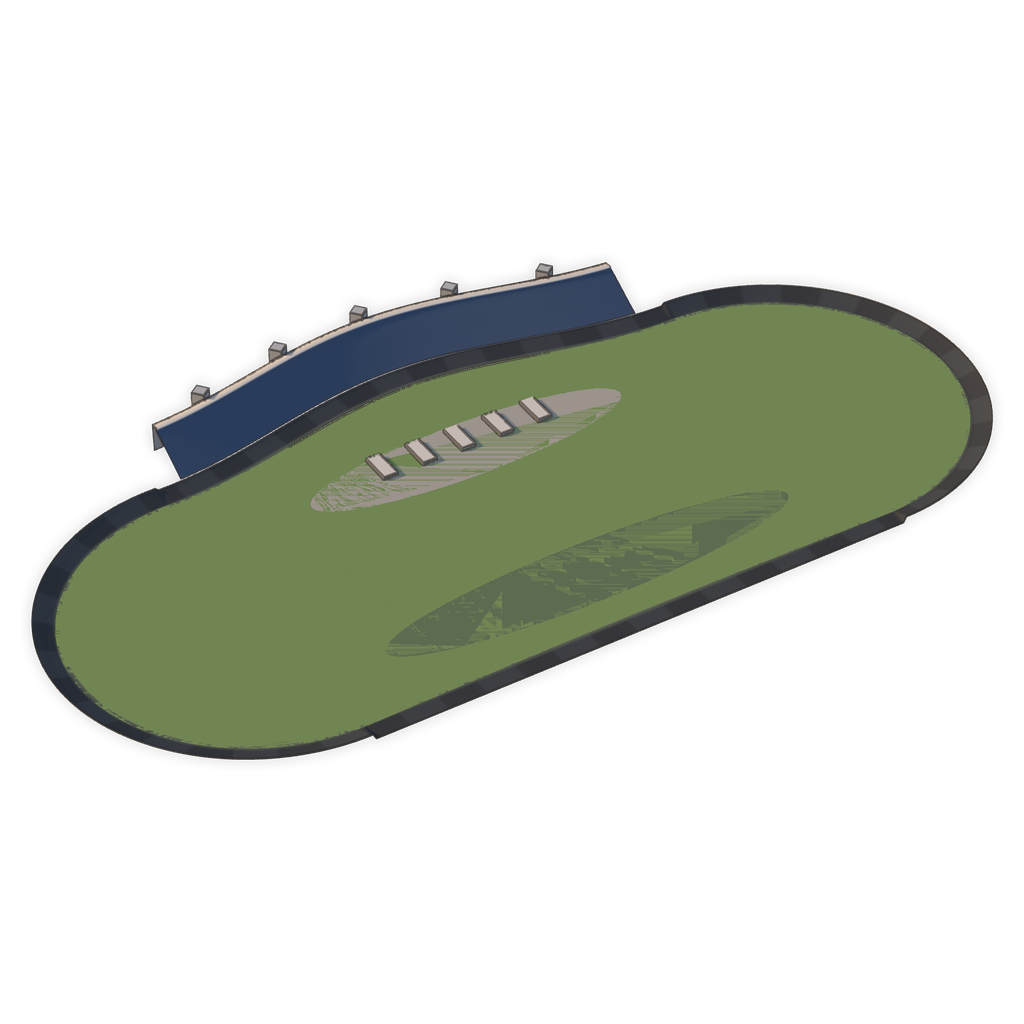
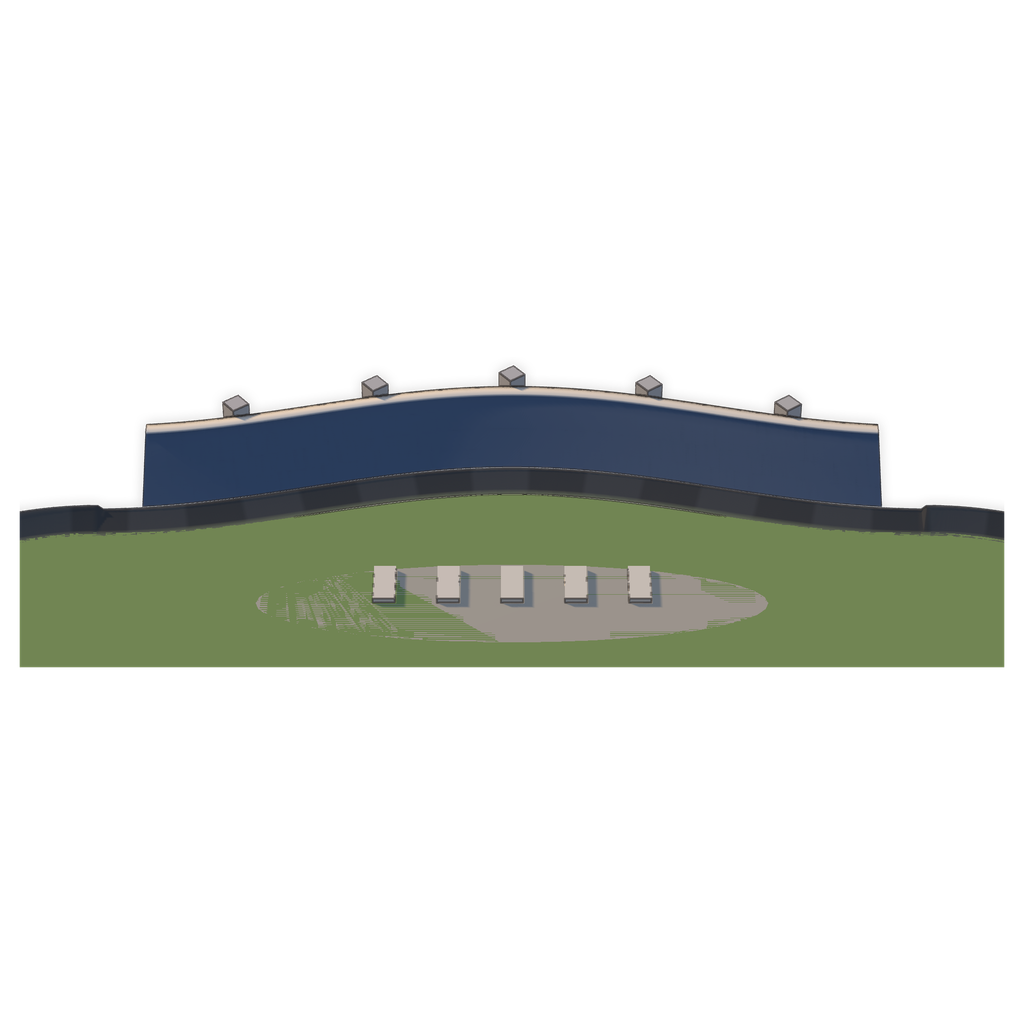
Racetracks: frame illustrations on the main grandstand and banking
Builders can name a framing region and camera bearing; framed venues render
at their own aspect ratio and are padded to a square by the compositor.

Changed region(s): [[0.0, 0.25, 1.0, 0.75]]

diff --git a/scripts/stadiums/art2/render.html b/scripts/stadiums/art2/render.html
@@ -31,26 +31,40 @@ document.body.appendChild(renderer.domElement)
 // One camera for every venue: 3/4 aerial from the south-southeast.
 const CAM_BEARING = 160, CAM_ELEV = 38, FOV = 20
 function fitCamera(obj, aspect) {
-  const box = new THREE.Box3().setFromObject(obj)
+  // Builders may name a framing region (e.g. racetracks: grandstand and banking) instead of the whole model.
+  let box = new THREE.Box3().setFromObject(obj)
+  if (obj.userData.frame) {
+    box = new THREE.Box3()
+    for (const [x, z] of obj.userData.frame) { box.expandByPoint(new THREE.Vector3(x, 0, z)); box.expandByPoint(new THREE.Vector3(x, 60, z)) }
+  }
   const sphere = box.getBoundingSphere(new THREE.Sphere())
   const cam = new THREE.PerspectiveCamera(FOV, aspect, 1, 20000)
-  const [bx, bz] = K.bearingVec(CAM_BEARING)
+  const [bx, bz] = K.bearingVec(obj.userData.cameraBearing ?? CAM_BEARING)
   const el = (CAM_ELEV * Math.PI) / 180
   const dist = (sphere.radius / Math.sin(((FOV / 2) * Math.PI) / 180)) * 1.02
   cam.position.set(sphere.center.x + bx * Math.cos(el) * dist, sphere.center.y + Math.sin(el) * dist, sphere.center.z + bz * Math.cos(el) * dist)
   cam.lookAt(sphere.center)
   cam.updateMatrixWorld()
   // Tighten the framing to the projected bounds so models fill the canvas.
+  // Project the frame points themselves (an axis-aligned box around a diagonal
+  // frame would pull in everything beside it), else the model's box corners.
   const corners = []
-  for (const x of [box.min.x, box.max.x]) for (const y of [box.min.y, box.max.y]) for (const z of [box.min.z, box.max.z]) corners.push(new THREE.Vector3(x, y, z).project(cam))
+  if (obj.userData.frame) for (const [x, z] of obj.userData.frame) for (const y of [0, 60]) corners.push(new THREE.Vector3(x, y, z).project(cam))
+  else for (const x of [box.min.x, box.max.x]) for (const y of [box.min.y, box.max.y]) for (const z of [box.min.z, box.max.z]) corners.push(new THREE.Vector3(x, y, z).project(cam))
   const xs = corners.map((p) => p.x), ys = corners.map((p) => p.y)
   const cx = (Math.max(...xs) + Math.min(...xs)) / 2, cy = (Math.max(...ys) + Math.min(...ys)) / 2
-  const ext = Math.max(Math.max(...xs) - cx, Math.max(...ys) - cy)
+  const hx = Math.max(...xs) - cx, hy = Math.max(...ys) - cy
+  // Framed venues (long grandstands) render at their own aspect ratio; the
+  // compositor pads to a square with transparent margins.
+  const A = obj.userData.frame ? Math.min(2.4, Math.max(1, hx / hy)) : 1
+  cam.aspect = A
+  const ext = Math.max(hx / A, hy)
   cam.zoom = 1 / (ext * 1.04)
   cam.updateProjectionMatrix()
+  cam.userData.aspect = A
   // Shift the image so the model's projected bounds are centered.
   const e = cam.projectionMatrix.elements
-  e[8] += cx * cam.zoom
+  e[8] += (cx / cam.aspect) * cam.zoom
   e[9] += cy * cam.zoom
   cam.projectionMatrixInverse.copy(cam.projectionMatrix).invert()
   return cam
@@ -91,8 +105,9 @@ window.renderVenue = async (slug, style, footprint, info, size = 2048) => {
   const ground = new THREE.Mesh(new THREE.PlaneGeometry(sphere.radius * 6, sphere.radius * 6), new THREE.ShadowMaterial({ opacity: 0.0 }))
   ground.rotation.x = -Math.PI / 2
   ground.position.set(sphere.center.x, Math.min(0, box.min.y) - 0.01, sphere.center.z)
-  renderer.setSize(size, size)
   const cam = fitCamera(model, 1)
+  const H = Math.round(size / cam.userData.aspect)
+  renderer.setSize(size, H)
   const out = {}
 
   // Color pass (with ambient occlusion for the shaded styles).
@@ -100,9 +115,9 @@ window.renderVenue = async (slug, style, footprint, info, size = 2048) => {
     renderer.render(scene, cam)
   } else {
     const composer = new EffectComposer(renderer)
-    composer.setSize(size, size)
+    composer.setSize(size, H)
     composer.addPass(new RenderPass(scene, cam))
-    const ao = new GTAOPass(scene, cam, size, size)
+    const ao = new GTAOPass(scene, cam, size, H)
     ao.updateGtaoMaterial({ radius: sphere.radius * 0.035, distanceExponent: 1.4, thickness: 2, scale: 1.2 })
     ao.blendIntensity = style === 'painted' ? 0.75 : 1.0
     composer.addPass(ao)

diff --git a/scripts/stadiums/art2/venues.js b/scripts/stadiums/art2/venues.js
@@ -450,6 +450,11 @@ function daytona({ fp, mat, info }) {
   const gs = new THREE.Mesh(gg, mat('#ffffff', { vertex: true, side: THREE.DoubleSide }))
   gs.castShadow = gs.receiveShadow = true
   for (let k = -2; k <= 2; k++) { const tw = K.box(24, 64, 24, '#c8ccd2', mat); const [x, z] = toW([k * 170, R + DOG * Math.cos(((k * 170) / S) * (Math.PI / 2)) ** 2 + W / 2 + 120]); tw.position.set(x, 0, z); g.add(tw) }
+  // Frame on the main grandstand, the tri-oval and the banked turn entries, not the
+  // infield: points spanning the front stretch out to where the turns bank.
+  g.userData.frame = [[-560, R - 50], [560, R - 50], [-560, R + DOG + W / 2 + 120], [560, R + DOG + W / 2 + 120]].map(([u, v]) => toW([u, v]))
+  // Racetracks face their main grandstand: camera looks at it square-on from the infield side.
+  g.userData.cameraBearing = (308 + 180) % 360
   // Paved garage and fan zone between the front stretch and the lake.
   const paved = []
   for (let i = 0; i < 40; i++) { const t = (i / 40) * Math.PI * 2; paved.push(toW([300 * Math.cos(t), R - 150 + 70 * Math.sin(t)])) }
